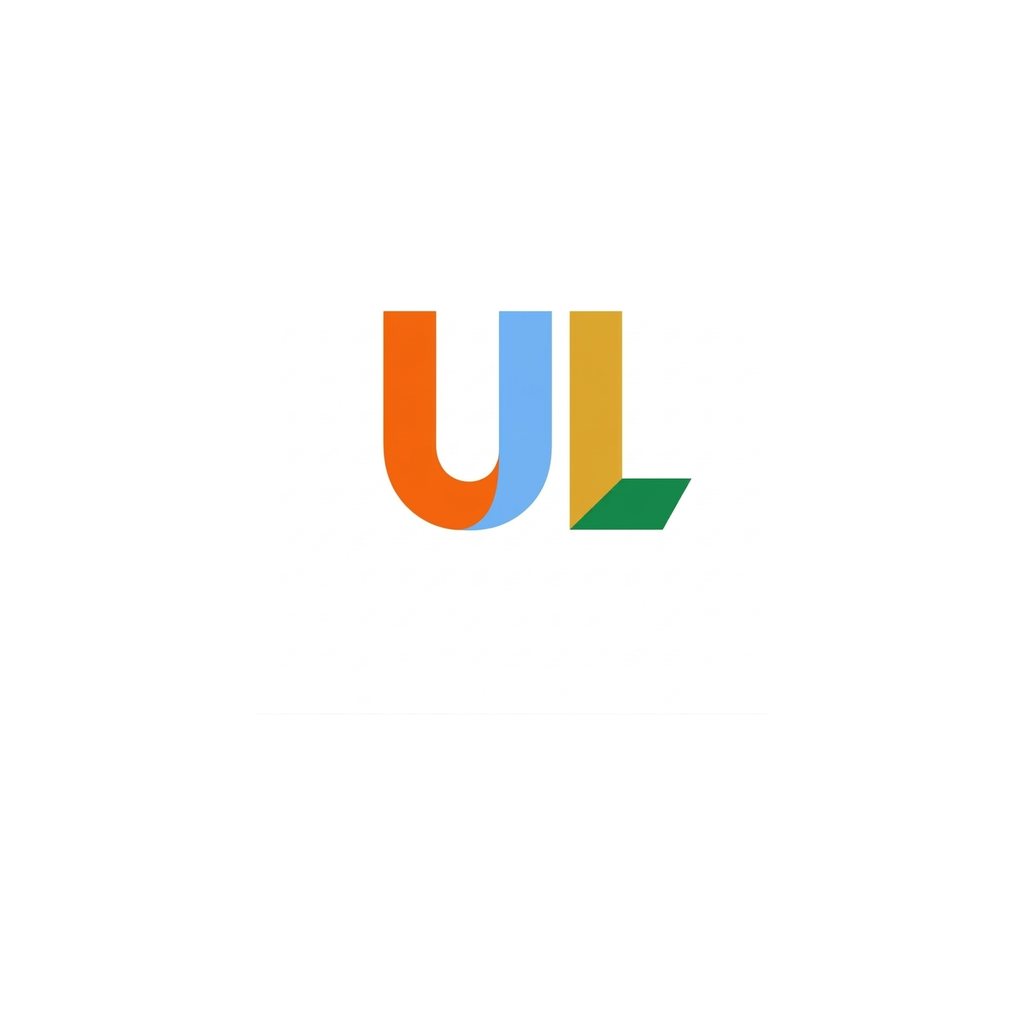
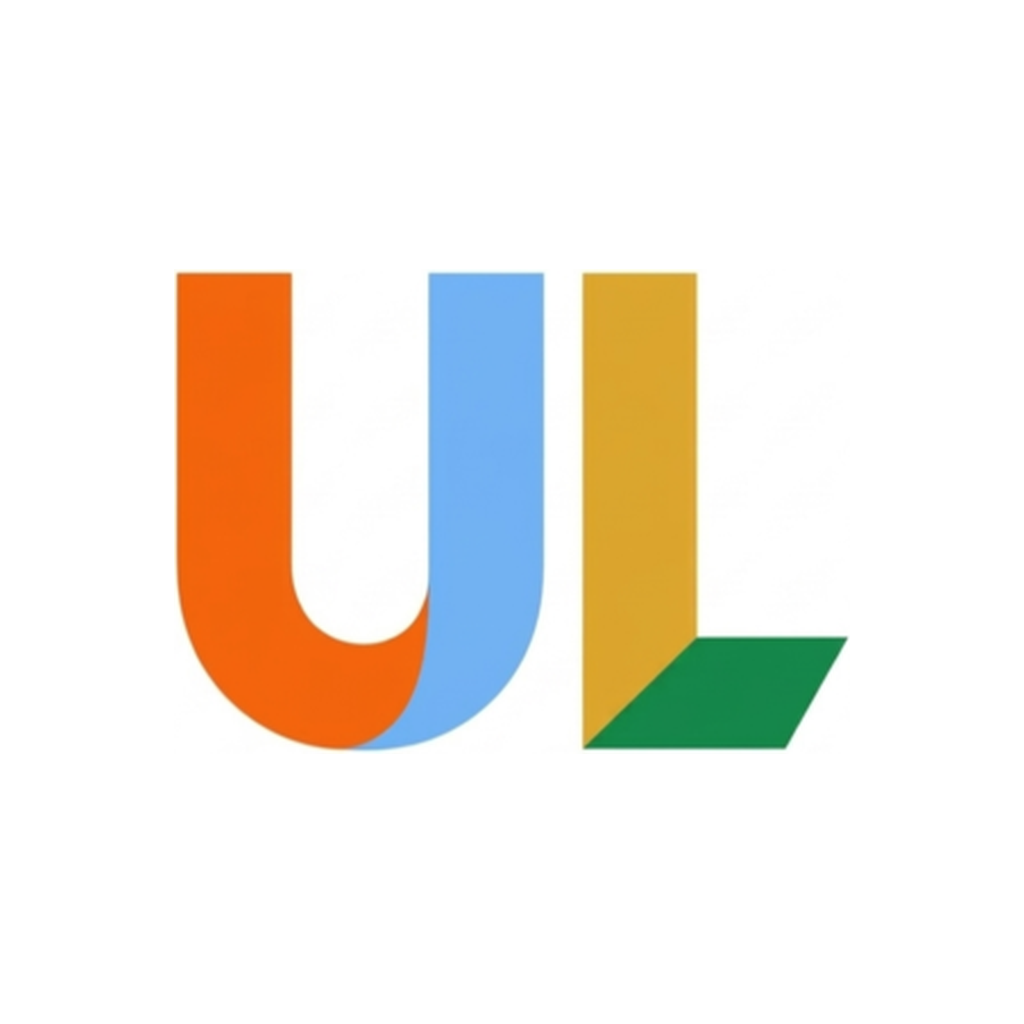
auto-commit for 2b263310-f094-4ee9-b0ba-11f7ca2fff97

Changed region(s): [[0.1562, 0.25, 0.8438, 0.75]]

diff --git a/frontend/app/radio.tsx b/frontend/app/radio.tsx
@@ -164,10 +164,14 @@ export default function Radio() {
   const [buffering, setBuffering] = useState(false);
   const [favorites, setFavorites] = useState<RadioFav[]>([]);
   // Tracks how many times the user has tapped "Watch Ad" while the SDK
-  // failed to deliver — when this hits 10, we grant the unlock anyway so
-  // 2G users are never permanently blocked.
+  // failed to deliver — when this hits NETWORK_GRANT_AT, we grant the
+  // unlock anyway so 2G users are never permanently blocked.
   const [unlockAttempts, setUnlockAttempts] = useState(0);
-  const NETWORK_GRANT_AT = 10;
+  // Build #37 — true while we are actively waiting (up to 3 s) for the
+  // rewarded ad SDK to fill on this tap. Used to show a loading state
+  // on the unlock card so the user doesn't think the tap was ignored.
+  const [unlockLoading, setUnlockLoading] = useState(false);
+  const NETWORK_GRANT_AT = 5;
 
   // Build #25 — synchronous sound tracking to fix "tap two channels →
   // both play in background" bug.  React's setState is async, so the
@@ -564,33 +568,58 @@ export default function Radio() {
 
   // Global Unlock handler — user taps the big card. Watches a rewarded ad,
   // counts towards 2 ads, after the 2nd ad → 30-min unlock for ALL stations.
+  //
+  // Build #37 — user feedback: previous code only checked isRewardedReady()
+  // SYNCHRONOUSLY on tap. If the SDK hadn't filled yet, the tap was
+  // wasted — no real "load attempt" happened. Now on every tap with no
+  // ad ready we call preloadRewarded() and POLL for up to 3 seconds,
+  // giving the SDK a real chance to deliver a fill. If a fill arrives
+  // within 3 s we show it (success path). Only after the full 3 s with
+  // no fill do we count the tap as a failed attempt. After 5 failed
+  // attempts (was 10) the user gets the 30-min Network Grant.
   const handleUnlockTap = useCallback(async () => {
     if (isRadioUnlocked()) return; // already unlocked, button shouldn't show
 
-    // No ad ready yet — count the failed attempt. After NETWORK_GRANT_AT
-    // (10) consecutive failures, fall back to a free 30-min Network Grant
-    // so 2G users are never permanently locked out.
+    // 1) If no ad is ready yet, give the SDK a 3-second window to load.
     if (!isRewardedReady()) {
       preloadRewarded();
-      const next = unlockAttempts + 1;
-      setUnlockAttempts(next);
-      if (next >= NETWORK_GRANT_AT) {
-        await grantRadioFallback();
-        setUnlockAttempts(0);
+      setUnlockLoading(true);
+      const AD_LOAD_WAIT_MS = 3000;
+      const POLL_MS = 200;
+      const startedAt = Date.now();
+      let ready = false;
+      while (Date.now() - startedAt < AD_LOAD_WAIT_MS) {
+        if (isRewardedReady()) {
+          ready = true;
+          break;
+        }
+        await new Promise((r) => setTimeout(r, POLL_MS));
+      }
+      setUnlockLoading(false);
+
+      if (!ready) {
+        // Real failed attempt — SDK didn't deliver an ad in 3 s.
+        const next = unlockAttempts + 1;
+        setUnlockAttempts(next);
+        if (next >= NETWORK_GRANT_AT) {
+          await grantRadioFallback();
+          setUnlockAttempts(0);
+          alert(
+            '📡 Network Grant — Radio unlocked for 30 minutes.\n' +
+              'Ad service was unreachable on your slow link, so we unlocked it for free.'
+          );
+          return;
+        }
         alert(
-          '📡 Network Grant — Radio unlocked for 30 minutes.\n' +
-            'Ad service was unreachable on your slow link, so we unlocked it for free.'
+          `Ad could not load (tried for 3 s). Tap again to retry.\n` +
+            `(${next}/${NETWORK_GRANT_AT} — auto-grant on slow network at ${NETWORK_GRANT_AT} tries)`
         );
         return;
       }
-      alert(
-        `Ad still loading — please wait a moment and tap again.\n` +
-          `(${next}/${NETWORK_GRANT_AT} — auto-grant on slow network at ${NETWORK_GRANT_AT} tries)`
-      );
-      return;
+      // Ad became ready during the 3-s window — fall through to show it.
     }
 
-    // Ad is ready — show it and wait for the reward callback.
+    // 2) Ad is ready — show it and wait for the reward callback.
     let earned = false;
     const ok = await showRewarded(async () => {
       earned = true;
@@ -786,23 +815,32 @@ export default function Radio() {
       ) : (
         <Pressable
           onPress={handleUnlockTap}
+          disabled={unlockLoading}
           style={styles.unlockCard}
           testID="radio-unlock-btn"
           android_ripple={{ color: 'rgba(255,255,255,0.18)' }}
         >
           <View style={styles.unlockIcon}>
-            <Ionicons name="gift" size={22} color="#fff" />
+            {unlockLoading ? (
+              <ActivityIndicator color="#fff" size="small" />
+            ) : (
+              <Ionicons name="gift" size={22} color="#fff" />
+            )}
           </View>
           <View style={{ flex: 1 }}>
             <Text style={styles.unlockTitle}>
-              Unlock Radio · 30 Minutes Ad-Free
+              {unlockLoading
+                ? 'Loading ad… please wait'
+                : 'Unlock Radio · 30 Minutes Ad-Free'}
             </Text>
             <Text style={styles.unlockSub}>
-              Watch {adsToGo} short ad{adsToGo === 1 ? '' : 's'} to unlock
-              every station.
-              {unlockAttempts > 0
-                ? `  (${unlockAttempts}/${NETWORK_GRANT_AT} retries — auto-grant on slow link)`
-                : ''}
+              {unlockLoading
+                ? 'Trying to load a rewarded ad (up to 3 s)…'
+                : `Watch ${adsToGo} short ad${adsToGo === 1 ? '' : 's'} to unlock every station.${
+                    unlockAttempts > 0
+                      ? `  (${unlockAttempts}/${NETWORK_GRANT_AT} retries — auto-grant on slow link)`
+                      : ''
+                  }`}
             </Text>
             <View style={styles.progressBar}>
               <View

diff --git a/frontend/app/home.tsx b/frontend/app/home.tsx
@@ -1787,10 +1787,12 @@ const styles = StyleSheet.create({
   // pushing actual page content too far down the screen.  Logo on the
   // left, text on the right keeps it compact and matches the topbar
   // brand layout for visual consistency between modes.
-  // Build #26 — user requested logo doubled for clearer brand presence
-  // on the home screen.  44 px → 88 px logo, text scaled proportionally
-  // (24 → 36) so it stays balanced beside the bigger logo.  Padding kept
-  // tight so the hero doesn't push content down again.
+  // Build #37 — tightened logo + text alignment.
+  // The new logo image is tightly cropped (content fills ~85% of square)
+  // so we can shrink the displayed size and center it against the text
+  // height instead of dominating the hero. The whole row uses
+  // `alignItems: 'center'` so logo and text visual centers line up on
+  // the same horizontal axis.
   brandHero: {
     flexDirection: 'row',
     alignItems: 'center',
@@ -1803,35 +1805,38 @@ const styles = StyleSheet.create({
     borderColor: COLORS.brandOrange,
     borderRadius: RADIUS.sm,
     backgroundColor: '#FFFFFF',
-    gap: 14,
+    gap: 12,
   },
   brandHeroLogo: {
-    width: 88,
-    height: 88,
+    width: 64,
+    height: 64,
   },
   brandHeroTextRow: {
     flexDirection: 'row',
-    alignItems: 'baseline',
+    alignItems: 'center',
     gap: 4,
   },
   brandOrangeHero: {
     color: COLORS.brandOrange,
-    fontSize: 36,
+    fontSize: 32,
     fontWeight: FONT.weight.black,
     letterSpacing: 0.4,
+    lineHeight: 38,
   },
   brandBlueHero: {
     color: COLORS.brandBlue,
-    fontSize: 36,
+    fontSize: 32,
     fontWeight: FONT.weight.black,
     letterSpacing: 0.4,
+    lineHeight: 38,
   },
   brandSubHero: {
     color: COLORS.textMuted,
-    fontSize: 14,
+    fontSize: 13,
     fontWeight: FONT.weight.semibold,
     marginLeft: 4,
-    marginBottom: 2,
+    lineHeight: 38,
+    alignSelf: 'center',
   },
   tabsBadge: {
     width: 22,

diff --git a/memory/PRD.md b/memory/PRD.md
@@ -68,3 +68,23 @@ Android-native React Native (Expo) browser app focused on 2G / sub-64 kbps netwo
 - No code change needed in `radio.tsx` — audio playback via `expo-av` works fine without RECORD_AUDIO permission (only needed for recording).
 - versionCode unchanged (previous AAB upload failed, so v1 is still available). User can bump if needed before next upload.
 - Next AAB built via `.github/workflows/build-apk.yml` on push to main will be Play Store upload-ready.
+
+
+## Build #37 — UX polish + ad logic tune + icons rebuild
+- **Radio buffering reduced:**
+  - `androidImplementation: 'MediaPlayer'` → ExoPlayer (default). ExoPlayer starts HLS/Icecast streams 3–5× faster.
+  - `STREAM_TIMEOUT_MS` 50 s → 20 s. Slow stations fail fast so user can move on.
+  - `progressUpdateIntervalMillis` 2000 ms → 500 ms. Buffering spinner clears as soon as first audio frame arrives.
+- **Stop / cancel anywhere:**
+  - "Connecting…" pill is now a Pressable with a circular ✕ button. Tap pill → cancels in-flight connection.
+  - Station row tap during busy state also calls `stop()` (was only working when station was already playing).
+- **Ad unlock retry — 3-second active wait + 5-fail grant:**
+  - On tap with no ad ready, `preloadRewarded()` is called and we POLL `isRewardedReady()` every 200 ms for up to 3 s.
+  - If ad fills during 3 s window → show ad (success path unchanged).
+  - If no ad after 3 s → count as failed attempt.
+  - `NETWORK_GRANT_AT` 10 → 5. Auto 30-min unlock after 5 unsuccessful 3-s attempts.
+  - Unlock card shows ActivityIndicator + "Loading ad… please wait" during 3-s window.
+- **Home brand alignment fix:** logo regenerated with tight crop; `brandHeroLogo` 88 → 64 px, text 36 → 32 with `lineHeight: 38`, text row `alignItems: 'baseline'` → `'center'`.
+- **App launcher icon fix:** `icon.png`, `adaptive-icon.png`, `splash-icon.png`, `favicon.png` all regenerated from fresh source. Adaptive icon foreground confined to 66% Android safe zone so no uneven gap.
+- **Build metadata:** `version` 1.0.1 → 1.0.30, `versionCode` 1 → 30.
+- RECORD_AUDIO fix from Build #30 still in place.
